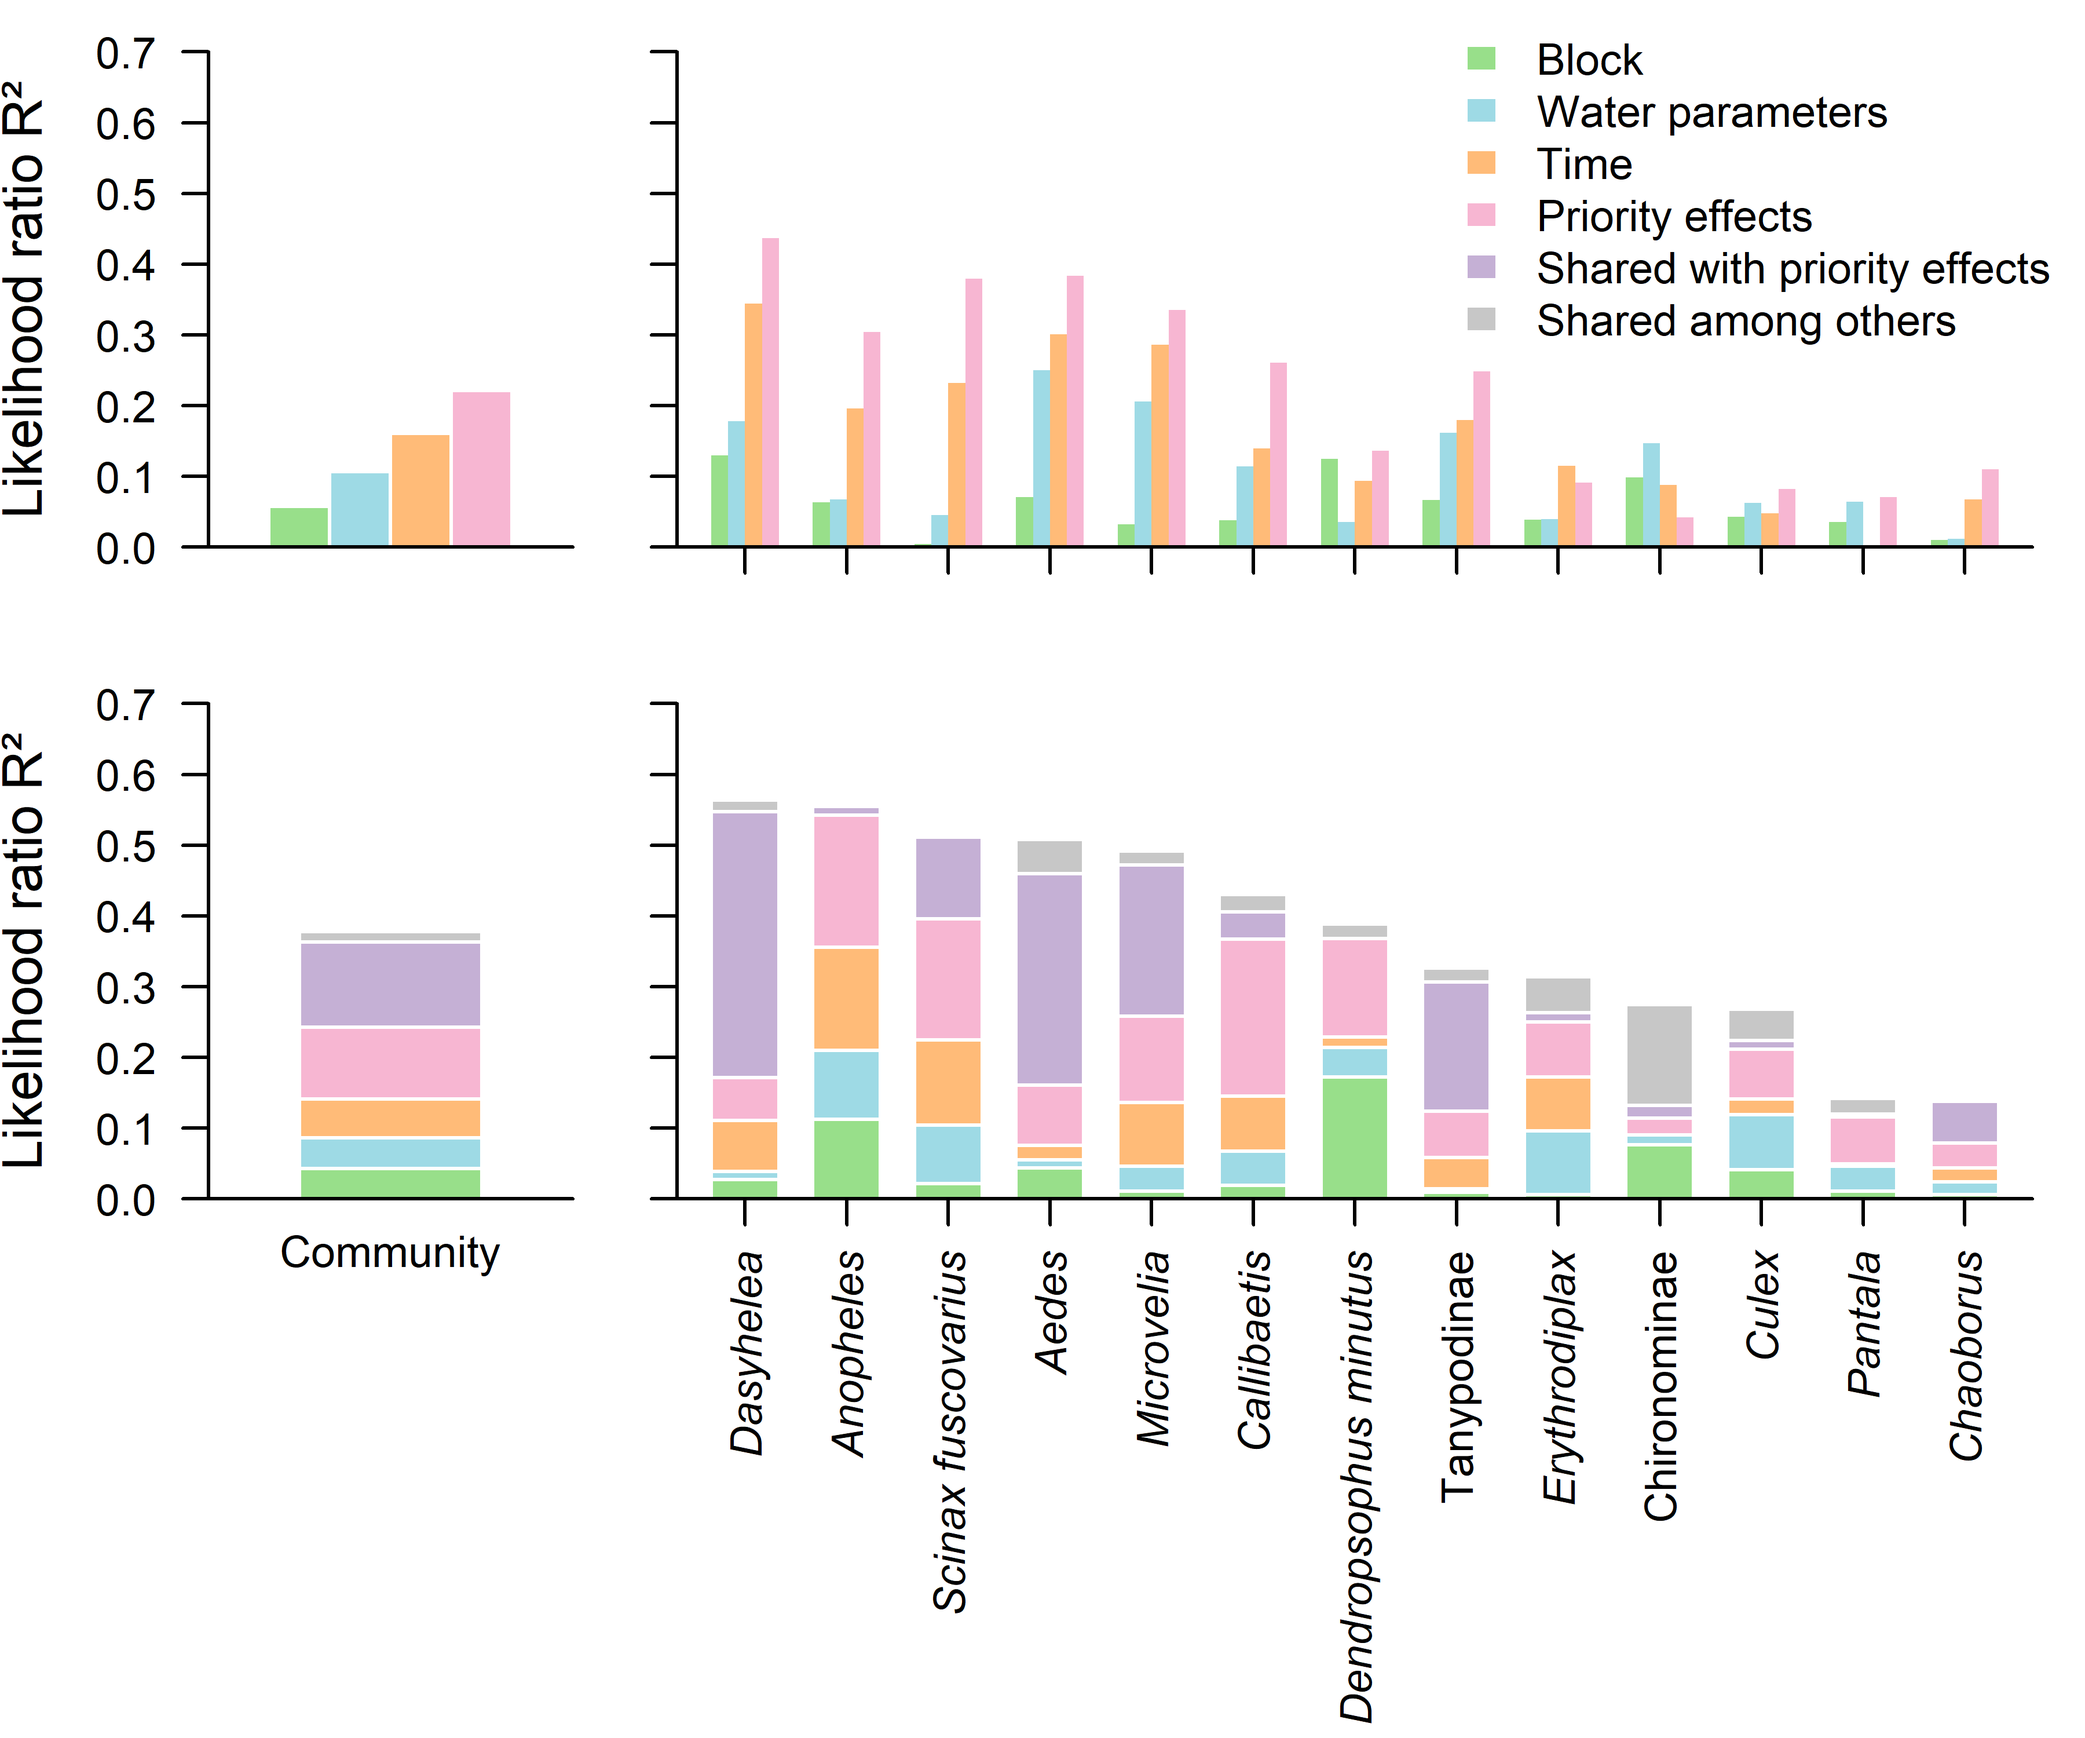
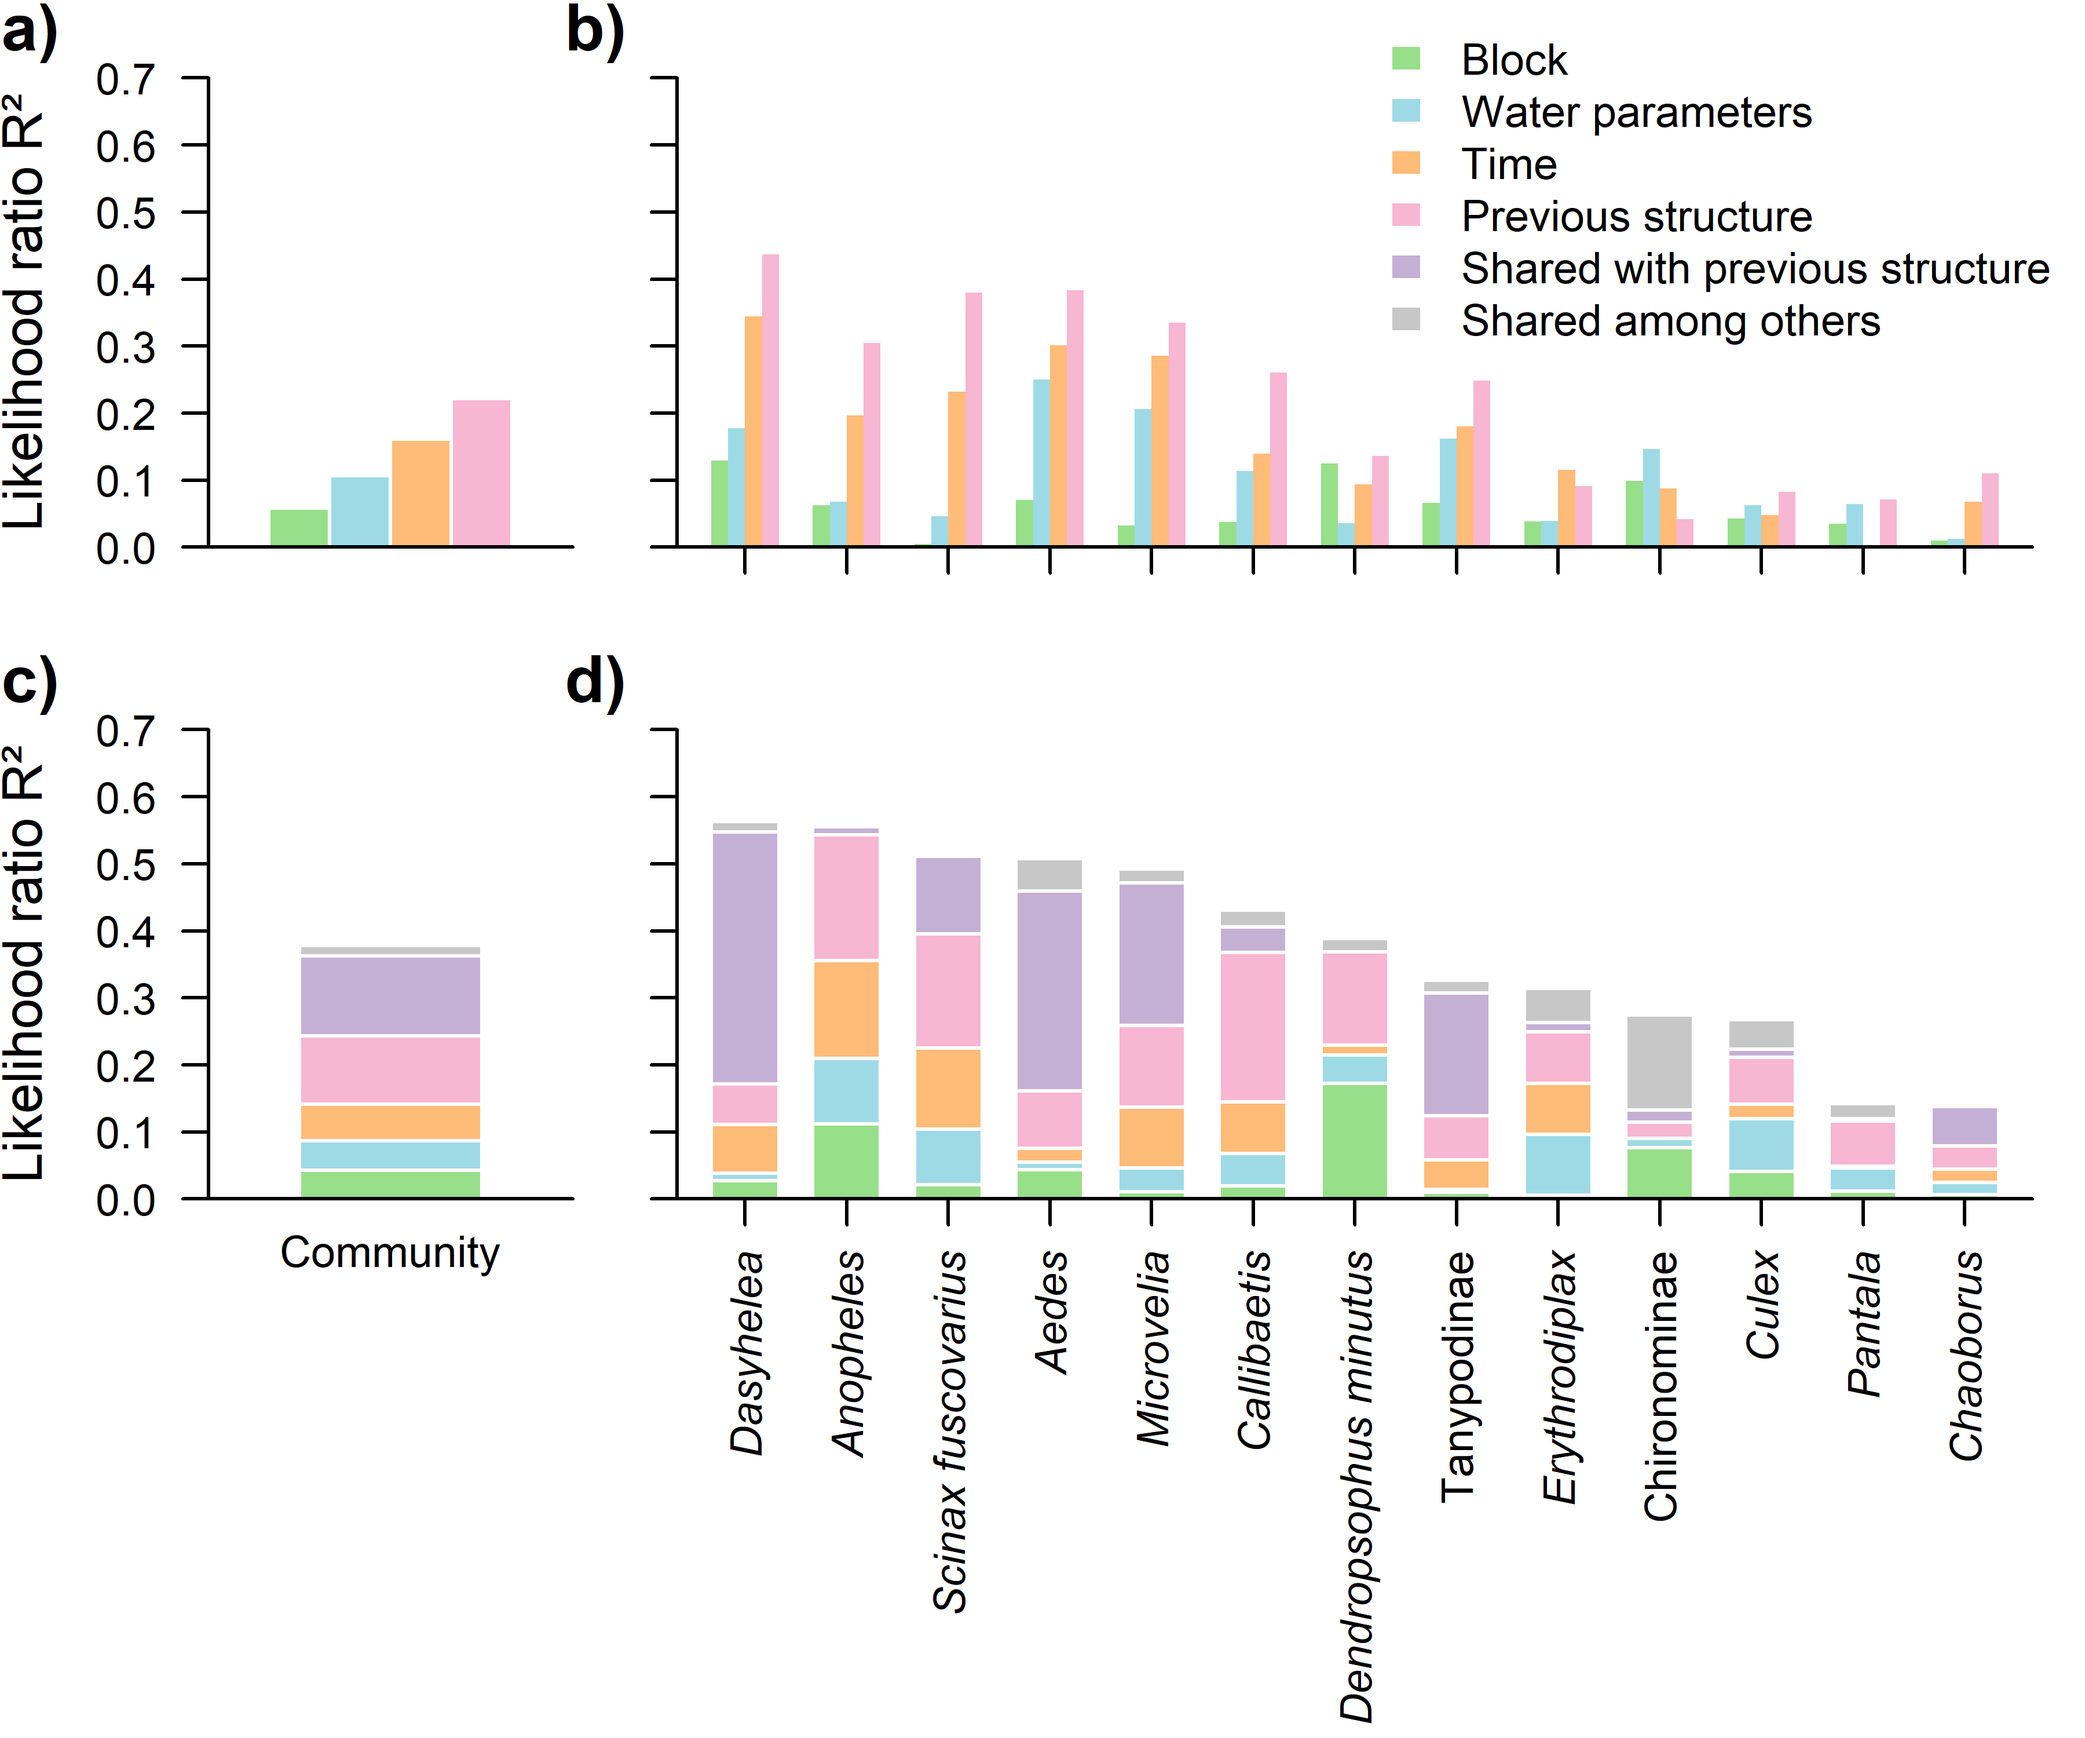
Adding letters to variation partitioning plot

diff --git a/Markdowns/Variation_partitioning_reduced_dimensionality.md b/Markdowns/Variation_partitioning_reduced_dimensionality.md
@@ -7,6 +7,7 @@ Rodolfo Pelinson
 source(paste(sep = "/",dir,"functions/remove_sp.R"))
 source(paste(sep = "/",dir,"functions/varpart_manyglm.R"))
 source(paste(sep = "/",dir,"functions/R2_manyglm.R"))
+source(paste(sep = "/",dir,"functions/letters.R"))
 ```
 
 ``` r
@@ -536,8 +537,8 @@ split.screen(matrix(c(0,0.3,0.625,1,
 
 ``` r
 screen(4)
-par(mar = c(2,1,1,1))
-barplot(full_model_sp, ylim = c(0,0.7), las = 2, border = "white", col = "#C7C7C7", xaxt = "n", xaxs = "i", width = 1, space = 0.5, xlim = c(0,20), yaxt = "n")
+par(mar = c(2,1,1.5,1), xpd = NA)
+barplot(full_model_sp, ylim = c(0,0.7), las = 2, border = "white", col = "#C7C7C7", xaxt = "n", xaxs = "i", width = 1, space = 0.5, xlim = c(0,20), yaxt = "n", ylab = "", xlab = "")
 par(new = TRUE)
 pure_scaleds <- rbind(pure_block_scaled, pure_Env_scaled, pure_Time_scaled, pure_Priority_scaled, shared_priority_others_scaled)
 barplot(pure_scaleds, ylim = c(0,0.7), las = 2, col = c("#98DF8A", "#9EDAE5", "#FFBB78", "#F7B6D2", "#C5B0D5"), border = "white", xaxt = "n", xaxs = "i", width = 1, space = 0.5, xlim = c(0,20), yaxt = "n")
@@ -561,16 +562,18 @@ axis(1, at = at_generator(first = 1, spacing = 1.5, n = length(names3)), gap.axi
 
 
 axis(2, las = 2, line = 0, labels = FALSE)
-
-par(new = TRUE, mar = c(0,0,0,0), bty = "n")
-plot(NA, xlim = c(0,100), ylim = c(0,100), xaxt = "n", yaxt = "n", xaxs = "i", yaxs = "i", )
+letters(x = -2, y = 95, "d)", cex = 1.5)
 
 
+#par(new = TRUE, mar = c(0,0,0,0), bty = "n")
+#plot(NA, xlim = c(0,100), ylim = c(0,100), xaxt = "n", yaxt = "n", xaxs = "i", yaxs = "i", )
 
 
-screen(3)
-par(mar = c(2,4,1,1))
-barplot(total_r2, ylim = c(0,0.7), las = 2, border = "white", col = "#C7C7C7", xaxt = "n", xaxs = "i", width = 1, space = 0.5, xlim = c(0,2), yaxt = "n")
+
+
+screen(3, new = FALSE)
+par(mar = c(2,4,1.5,1), xpd = NA)
+barplot(total_r2, ylim = c(0,0.7), las = 2, border = "white", col = "#C7C7C7", xaxt = "n", xaxs = "i", width = 1, space = 0.5, xlim = c(0,2), yaxt = "n", ylab = "", xlab = "")
 par(new = TRUE)
 
 shared_priority_com <- varpart_priority$R2_fractions_com[4,1] - varpart_priority$R2_fractions_com[4,2]
@@ -584,12 +587,13 @@ axis(1, at = c(1), gap.axis = -10, tick = FALSE, labels = "Community", las = 1, 
 
 title(ylab = "Likelihood ratio R²", cex.lab = 1.25)
 axis(2, las = 2, line = 0)
+letters(x = 5, y = 95, "c)", cex = 1.5)
 
 
-screen(2)
-par(mar = c(2,1,1,1))
+screen(2, new = FALSE)
+par(mar = c(2,1,1.5,1), xpd = NA)
 pure_scaleds <- rbind(full_block, full_Env, full_Time, full_Priority)
-barplot(pure_scaleds, ylim = c(0,0.7), las = 2, col = c("#98DF8A", "#9EDAE5", "#FFBB78", "#F7B6D2"), border = "transparent", xaxt = "n", xaxs = "i", width = 1, space = c(0,2), xlim = c(0,80), yaxt = "n", beside = TRUE)
+barplot(pure_scaleds, ylim = c(0,0.7), las = 2, col = c("#98DF8A", "#9EDAE5", "#FFBB78", "#F7B6D2"), border = "transparent", xaxt = "n", xaxs = "i", width = 1, space = c(0,2), xlim = c(0,80), yaxt = "n", beside = TRUE, ylab = "", xlab = "")
 box(bty = "l")
 names <- colnames(pure_scaleds)
 names <- gsub("\\."," ", names)
@@ -599,21 +603,24 @@ font[names == "Chironominae" | names == "Tanypodinae"] <- 1
 axis(1, at = at_generator(first = 4, spacing = 6, n = length(names)), gap.axis = -10, tick = TRUE, labels = FALSE, las = 2, font = 3, line = 0)
 #axis(1, at = at_generator(first = 4, spacing = 6, n = length(c(names[1:8], c("",""),names[11:13]))), gap.axis = -10, tick = FALSE, labels = c(names[1:8], c("",""),names[11:13]), las = 2, font = 3, line = 0)
 #axis(1, at = at_generator(first = 4, spacing = 6, n = length(c(rep("",8), names[9:10],rep("",3)))), gap.axis = -10, tick = FALSE, labels = c(rep("",8), names[9:10],rep("",3)), las = 2, font = 1, line = 0)
-
 axis(2, las = 2, line = 0, labels = FALSE)
 
+letters(x = -2, y = 95, "b)", cex = 1.5)
+
+
 par(new = TRUE, mar = c(0,0,0,0), bty = "n")
-plot(NA, xlim = c(0,100), ylim = c(0,100), xaxt = "n", yaxt = "n", xaxs = "i", yaxs = "i", )
+plot(NA, xlim = c(0,100), ylim = c(0,100), xaxt = "n", yaxt = "n", xaxs = "i", yaxs = "i", ylab = "", xlab = "")
 
 legend(x = 99, y = 99, xjust = 1, yjust = 1, fill = c("#98DF8A", "#9EDAE5", "#FFBB78","#F7B6D2", "#C5B0D5", "#C7C7C7"),
-       legend = c("Block", "Water parameters", "Time", "Priority effects", "Shared with priority effects", "Shared among others"), border = "white", bty = "n")
+       legend = c("Block", "Water parameters", "Time", "Previous structure", "Shared with previous structure", "Shared among others"), border = "white", bty = "n")
 
-screen(1)
-par(mar = c(2,4,1,1))
+
+screen(1, new = FALSE)
+par(mar = c(2,4,1.5,1), xpd = NA)
 
 pure_scaleds <- as.matrix(varpart_priority$R2_fractions_com$R2_full_fraction)
 
-barplot(pure_scaleds, ylim = c(0,0.7), las = 2, col = c("#98DF8A", "#9EDAE5", "#FFBB78", "#F7B6D2", "#C5B0D5"), border = "white", xaxt = "n", xaxs = "i", width = 1, space = c(0,1), xlim = c(0,6), yaxt = "n", beside = TRUE)
+barplot(pure_scaleds, ylim = c(0,0.7), las = 2, col = c("#98DF8A", "#9EDAE5", "#FFBB78", "#F7B6D2", "#C5B0D5"), border = "white", xaxt = "n", xaxs = "i", width = 1, space = c(0,1), xlim = c(0,6), yaxt = "n", beside = TRUE, ylab = "", xlab = "")
 box(bty = "l")
 #axis(1, at = c(3), gap.axis = -10, tick = FALSE, labels = "Community", las = 1, font = 1, line = -0.5)
 #title(ylab = "Likelihood ratio R²", cex.lab = 1.25)
@@ -623,14 +630,14 @@ box(bty = "l")
 
 title(ylab = "Likelihood ratio R²", cex.lab = 1.25)
 axis(2, las = 2, line = 0)
-```
+letters(x = 5, y = 95, "a)", cex = 1.5)
 
-![](Variation_partitioning_reduced_dimensionality_files/figure-gfm/unnamed-chunk-9-1.png)<!-- -->
 
-``` r
 #dev.off()
 ######
 ```
+
+![](Variation_partitioning_reduced_dimensionality_files/figure-gfm/unnamed-chunk-9-1.png)<!-- -->
 
 Now testing the significance of these fractions
 
